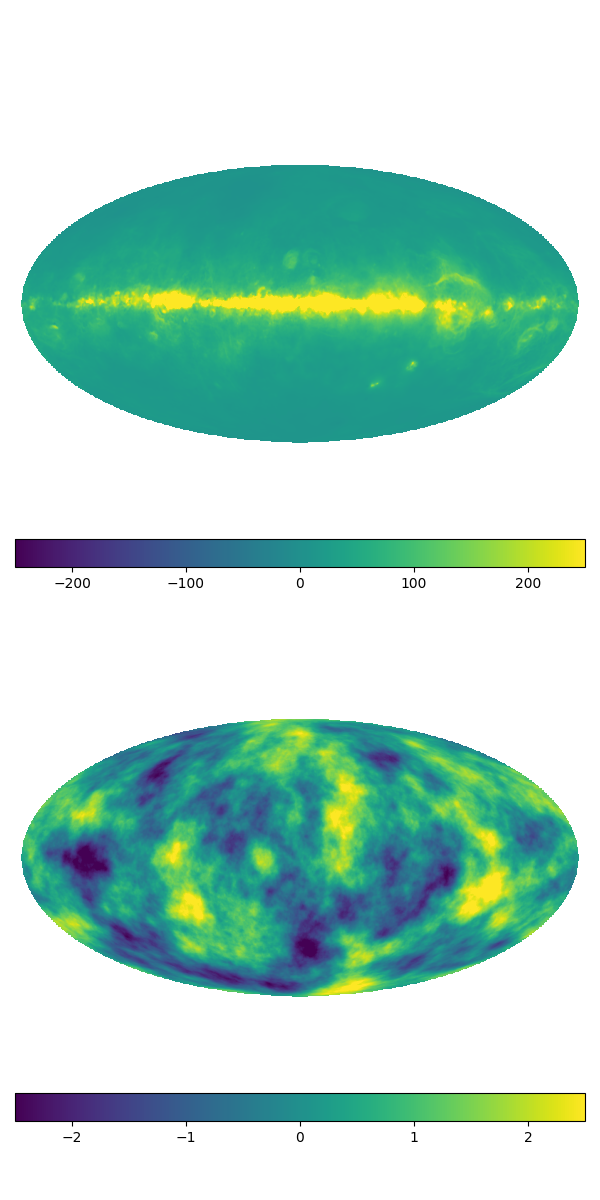
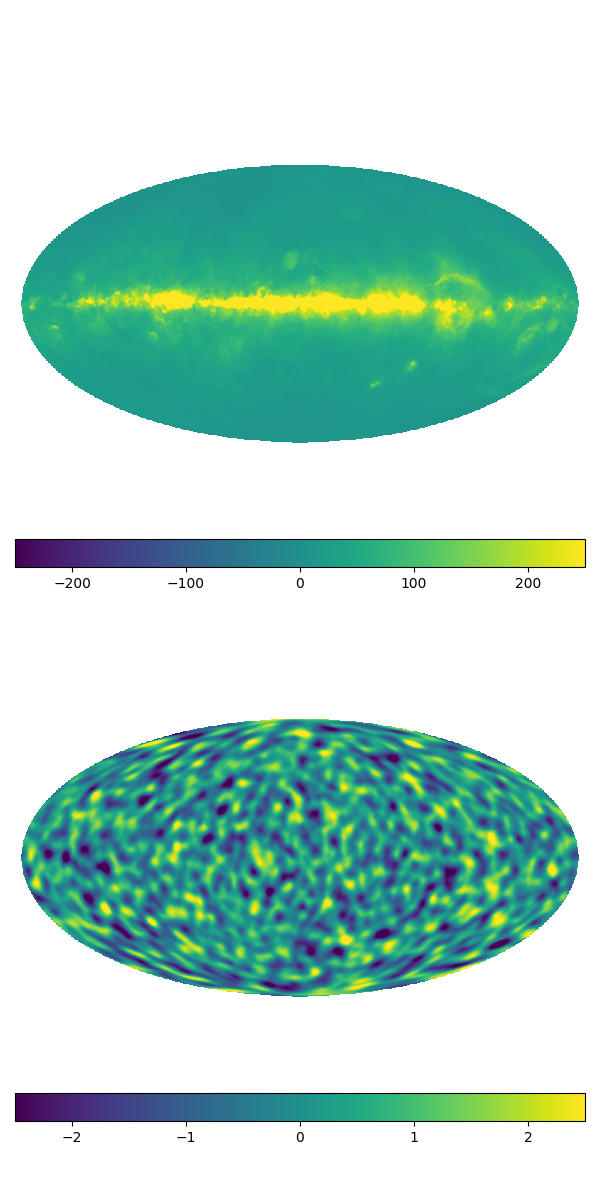
Typo corrected for creatin of zero comp mock catalog.

Changed region(s): [[0.03, 0.5858, 0.96, 0.8325]]

diff --git a/catalog_maker.py b/catalog_maker.py
@@ -156,20 +156,20 @@ class CatalogMaker():
         rm_data[np.isnan(data['z_best'])] +=  N_gal.draw_sample().val
         print(rm_data.min(), rm_data.max(), rm_data.mean())
 
-
+        #creating mock sigma eg
+        cat_index_eg=np.where(data['catalog']==self.params['params_mock_cat.maker_params.cat_eg'])[0][~np.isnan(np.where(data['catalog']==self.params['params_mock_cat.maker_params.cat_eg'])[0])]
+        sigma_eg = data['rm_err'][cat_index_eg]
+        histogram_sigma_eg = rv_histogram(np.histogram(sigma_eg, bins=100), density=False)
+        sigma_eg_mock=histogram_sigma_eg.rvs(size=lerm)
+        sigma_eg_mock_field=ift.Field.from_raw(ift.UnstructuredDomain(lerm),np.array(sigma_eg_mock))
+        N_eg = ift.DiagonalOperator(sigma_eg_mock_field**2, domain=ift.UnstructuredDomain(lerm), sampling_dtype=np.float64)
+        rm_data[z_indices]+=N_eg.draw_sample().val
+        
         if self.params['params_mock_cat.maker_params.eg_on']==1:
-            #creating mock sigma eg
-            cat_index_eg=np.where(data['catalog']==self.params['params_mock_cat.maker_params.cat_eg'])[0][~np.isnan(np.where(data['catalog']==self.params['params_mock_cat.maker_params.cat_eg'])[0])]
-            sigma_eg = data['rm_err'][cat_index_eg]
-            histogram_sigma_eg = rv_histogram(np.histogram(sigma_eg, bins=100), density=False)
-            sigma_eg_mock=histogram_sigma_eg.rvs(size=lerm)
-            sigma_eg_mock_field=ift.Field.from_raw(ift.UnstructuredDomain(lerm),np.array(sigma_eg_mock))
-            N_eg = ift.DiagonalOperator(sigma_eg_mock_field**2, domain=ift.UnstructuredDomain(lerm), sampling_dtype=np.float64)
-
             np.random.seed(seed=self.params['params_mock_cat.maker_params.seed'])
             rand_rm=np.random.normal(0.0, 1.0,len(e_rm))
             egal_contr = emodel.get_model().sqrt()(egal_mock_position).val*rand_rm
-            rm_data[z_indices]+=egal_contr + N_eg.draw_sample().val
+            rm_data[z_indices]+=egal_contr 
             print('std',np.std(egal_contr))
             print('mean',np.mean(egal_contr))
 
